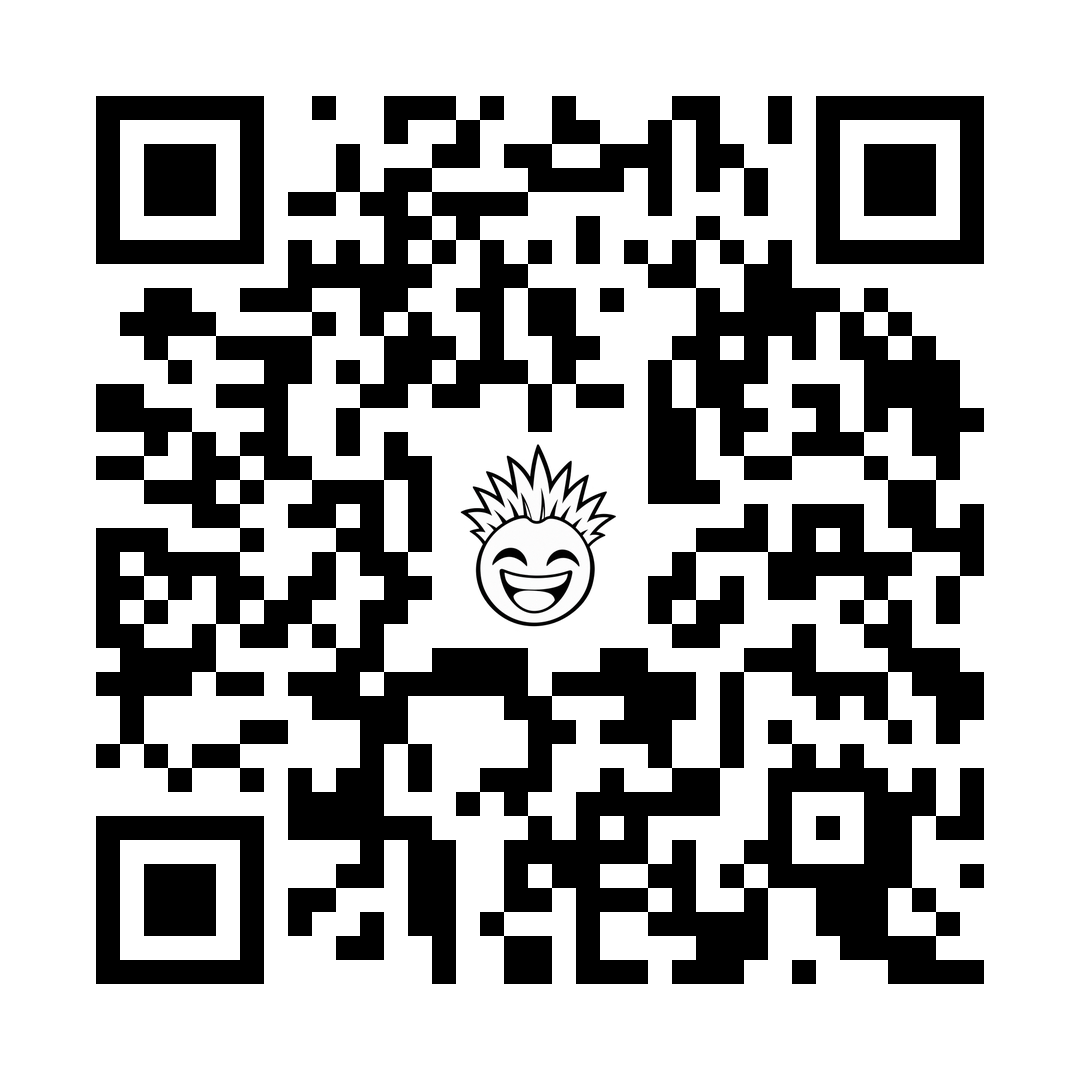
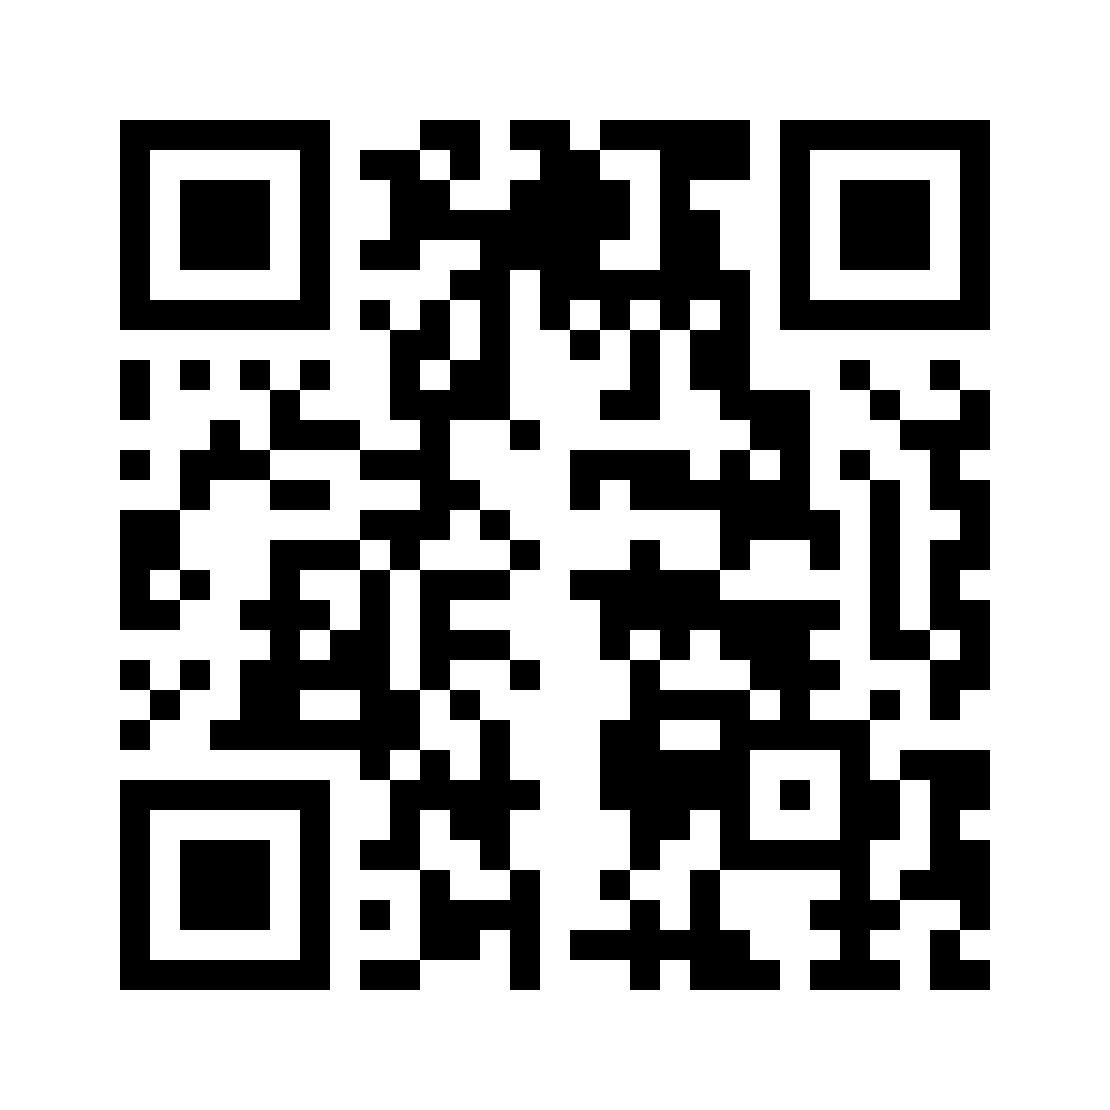
change domain

diff --git a/index.html b/index.html
@@ -10,6 +10,6 @@
 <section class="worlds" aria-label="Unsere Welten"><a class="world punk" href="#katalog" data-world-link="punk"><div><span class="eyebrow">FÜR KLEINE REBELLEN</span><h2>Punk for Kids <span><svg class="arrow arrow-up-right" viewBox="0 0 20 20" aria-hidden="true" focusable="false"><path d="M4 16 16 4M5 4h11v11"/></svg></span></h2><p>Young Rebels, Junior Rebels &amp; Shirts mit Eigensinn.</p></div><img class="world-symbol punk-symbol" src="assets/giggle-punk-wordmark-square.png" width="1280" height="1280" alt="Giggle Punk – lachendes Gesicht mit Irokesen"></a><a class="world kids" href="#katalog" data-world-link="kids"><div><span class="eyebrow">FÜR GROSSE TRÄUMER</span><h2>Kids <span><svg class="arrow arrow-up-right" viewBox="0 0 20 20" aria-hidden="true" focusable="false"><path d="M4 16 16 4M5 4h11v11"/></svg></span></h2><p>Dumplings, Tierfreunde &amp; ein Jahr voller Abenteuer.</p></div><img class="world-symbol home-symbol" src="assets/giggle-home-wordmark-square.png" width="1280" height="1280" alt="Giggle Home – lachendes Haus"></a></section>
 <section id="katalog" class="catalog"><div class="catalog-heading"><div><p class="eyebrow">UNSERE PRODUKTE</p><h2>Bunte Bücher, wilde Shirts <i>&amp; mehr.</i></h2></div><label class="search"><span aria-hidden="true">⌕</span><input id="search" type="search" placeholder="Produkte suchen …" aria-label="Produkte durchsuchen"></label></div><p class="catalog-intro">Entdecke alle 68 Etsy-Artikel und 17 veröffentlichte Bücher bei Amazon – gedruckt oder zum Selbstausdrucken.</p><div class="filter-top"><div class="world-filters" aria-label="Produktwelt"><button data-world="all" aria-pressed="true">Alle Welten</button><button data-world="punk" aria-pressed="false">Punk for Kids</button><button data-world="kids" aria-pressed="false">Kids</button></div><label class="sort-label">Sortieren <select id="sort" aria-label="Produkte sortieren"><option value="curated">Unsere Auswahl</option><option value="newest">Neuheiten zuerst</option><option value="az">Name A–Z</option><option value="za">Name Z–A</option></select></label></div><div class="filter-bottom"><div class="category-filters" aria-label="Produkttyp"><button data-category="all" aria-pressed="true">Alles <span></span></button><button data-category="books" aria-pressed="false">Mal- &amp; Mitmachbücher <span></span></button><button data-category="printables" aria-pressed="false">Malbücher zum Ausdrucken <span></span></button><button data-category="clothing" aria-pressed="false">T-Shirts / Clothing <span></span></button><button data-category="posters" aria-pressed="false">Poster <span></span></button><button data-category="digitalposters" aria-pressed="false">Poster zum Ausdrucken <span></span></button><button data-category="calendar" aria-pressed="false">Kalender <span></span></button></div><p id="count" role="status" aria-live="polite"></p></div><div id="grid" class="grid"></div><div id="empty" hidden><h3>Noch kein Treffer.</h3><p>Probiere einen anderen Suchbegriff oder eine andere Kategorie.</p><button id="reset">Alle Produkte zeigen</button></div><noscript>Bitte aktiviere JavaScript für den Produktkatalog. Alle Produkte findest du auch direkt im <a href="https://www.etsy.com/shop/GigglingHome">Etsy-Shop</a> und auf der <a href="https://amazon.com/author/giggle">Amazon-Autorenseite</a>.</noscript></section>
 <section class="endnote"><img class="endnote-art" src="assets/giggle-home-creative-banner-sage-coral.png" width="2172" height="724" loading="lazy" alt="Das lachende Giggle-Home-Haus mit zwei Dumplings beim Malen, einem Kinder-Shirt und einem gerahmten Fantasieposter"><div class="endnote-copy"><p class="eyebrow">EINE IDEE. VIELE BUNTE WELTEN.</p><h2>Für mehr „Das bin ich!“<br>im Kinderzimmer.</h2><p>Ob mit Stiften in der Hand, dem Lieblingsshirt am Körper<br>oder einem kleinen Abenteuer an der Wand.</p></div><div class="endnote-actions" aria-label="Unsere Shops"><a class="button" href="https://www.etsy.com/shop/GigglingHome" target="_blank" rel="noopener noreferrer">Giggle Home auf Etsy <svg class="arrow arrow-up-right" viewBox="0 0 20 20" aria-hidden="true" focusable="false"><path d="M4 16 16 4M5 4h11v11"/></svg></a><a class="button" href="https://amazon.com/author/giggle" target="_blank" rel="noopener noreferrer">Bücher bei Amazon <svg class="arrow arrow-up-right" viewBox="0 0 20 20" aria-hidden="true" focusable="false"><path d="M4 16 16 4M5 4h11v11"/></svg></a><a class="button spreadshop-button" href="https://gigglehome.myspreadshop.de" target="_blank" rel="noopener noreferrer">Shirts bei Spreadshop <svg class="arrow arrow-up-right" viewBox="0 0 20 20" aria-hidden="true" focusable="false"><path d="M4 16 16 4M5 4h11v11"/></svg></a></div></section>
-</main><aside class="take-home" aria-labelledby="take-home-title"><div class="take-home-copy"><p class="eyebrow">FÜR UNTERWEGS</p><h2 id="take-home-title">Giggle Home mitnehmen</h2><p class="take-home-description">Scannen, speichern oder weitergeben – unsere bunten Welten passen auch in die Hosentasche.</p><div class="qr-downloads"><a href="assets/giggle-home-qr.png" download="giggle-home-qr.png">QR-Code herunterladen <svg class="arrow arrow-download" viewBox="0 0 20 20" aria-hidden="true" focusable="false"><path d="M10 3v11M5 9l5 5 5-5M4 17h12"/></svg></a><a href="assets/giggle-home-qr.svg" download="giggle-home-qr.svg">Druckversion (SVG) <svg class="arrow arrow-download" viewBox="0 0 20 20" aria-hidden="true" focusable="false"><path d="M10 3v11M5 9l5 5 5-5M4 17h12"/></svg></a></div></div><a class="qr-image-link" href="https://giggle.stefanmarx.de/?source=qr" aria-label="Giggle Home über den QR-Link öffnen"><img src="assets/giggle-home-qr.svg" width="164" height="164" loading="lazy" alt="QR-Code zur Giggle-Home-Webseite"><span>giggle.stefanmarx.de</span></a></aside><footer><a class="footer-brand" href="#" aria-label="Giggle Home – Startseite"><img src="assets/giggle-home-logo-sage-coral.png" width="2172" height="724" alt="Giggle Home"></a><p>Malbücher, Kleidung, Poster & Kalender.</p><a href="https://amazon.com/author/giggle" target="_blank" rel="noopener noreferrer">Amazon <svg class="arrow arrow-up-right" viewBox="0 0 20 20" aria-hidden="true" focusable="false"><path d="M4 16 16 4M5 4h11v11"/></svg></a><a href="https://www.etsy.com/shop/GigglingHome" target="_blank" rel="noopener noreferrer">Etsy <svg class="arrow arrow-up-right" viewBox="0 0 20 20" aria-hidden="true" focusable="false"><path d="M4 16 16 4M5 4h11v11"/></svg></a><a href="https://gigglehome.myspreadshop.de" target="_blank" rel="noopener noreferrer">Spreadshop <svg class="arrow arrow-up-right" viewBox="0 0 20 20" aria-hidden="true" focusable="false"><path d="M4 16 16 4M5 4h11v11"/></svg></a><div class="footer-social" role="group" aria-label="Giggle Punk auf Social Media"><a href="https://www.pinterest.com/gigglepunk/" target="_blank" rel="noopener noreferrer">Pinterest · @gigglepunk <svg class="arrow arrow-up-right" viewBox="0 0 20 20" aria-hidden="true" focusable="false"><path d="M4 16 16 4M5 4h11v11"/></svg></a><a href="https://www.instagram.com/giggle.punk/" target="_blank" rel="noopener noreferrer">Instagram · @giggle.punk <svg class="arrow arrow-up-right" viewBox="0 0 20 20" aria-hidden="true" focusable="false"><path d="M4 16 16 4M5 4h11v11"/></svg></a></div><nav class="legal-links" aria-label="Rechtliche Informationen"><a class="legal-imprint" href="https://impressum.stefanmarx.de/">Impressum</a><a class="legal-privacy" href="https://impressum.stefanmarx.de/datenschutz/">Datenschutz</a></nav></footer><div class="demo-note">Produktkatalog · Stand 18.11.2026 · Einkauf und aktuelle Preise direkt bei Amazon, Etsy oder Spreadshop.</div>
+</main><aside class="take-home" aria-labelledby="take-home-title"><div class="take-home-copy"><p class="eyebrow">FÜR UNTERWEGS</p><h2 id="take-home-title">Giggle Home mitnehmen</h2><p class="take-home-description">Scannen, speichern oder weitergeben – unsere bunten Welten passen auch in die Hosentasche.</p><div class="qr-downloads"><a href="assets/giggle-home-qr.png" download="giggle-home-qr.png">QR-Code herunterladen <svg class="arrow arrow-download" viewBox="0 0 20 20" aria-hidden="true" focusable="false"><path d="M10 3v11M5 9l5 5 5-5M4 17h12"/></svg></a><a href="assets/giggle-home-qr.svg" download="giggle-home-qr.svg">Druckversion (SVG) <svg class="arrow arrow-download" viewBox="0 0 20 20" aria-hidden="true" focusable="false"><path d="M10 3v11M5 9l5 5 5-5M4 17h12"/></svg></a></div></div><a class="qr-image-link" href="https://www.gigglehome.de/?source=qr" aria-label="Giggle Home über den QR-Link öffnen"><img src="assets/giggle-home-qr.svg" width="164" height="164" loading="lazy" alt="QR-Code zur Giggle-Home-Webseite"><span>www.gigglehome.de</span></a></aside><footer><a class="footer-brand" href="#" aria-label="Giggle Home – Startseite"><img src="assets/giggle-home-logo-sage-coral.png" width="2172" height="724" alt="Giggle Home"></a><p>Malbücher, Kleidung, Poster & Kalender.</p><a href="https://amazon.com/author/giggle" target="_blank" rel="noopener noreferrer">Amazon <svg class="arrow arrow-up-right" viewBox="0 0 20 20" aria-hidden="true" focusable="false"><path d="M4 16 16 4M5 4h11v11"/></svg></a><a href="https://www.etsy.com/shop/GigglingHome" target="_blank" rel="noopener noreferrer">Etsy <svg class="arrow arrow-up-right" viewBox="0 0 20 20" aria-hidden="true" focusable="false"><path d="M4 16 16 4M5 4h11v11"/></svg></a><a href="https://gigglehome.myspreadshop.de" target="_blank" rel="noopener noreferrer">Spreadshop <svg class="arrow arrow-up-right" viewBox="0 0 20 20" aria-hidden="true" focusable="false"><path d="M4 16 16 4M5 4h11v11"/></svg></a><div class="footer-social" role="group" aria-label="Giggle Punk auf Social Media"><a href="https://www.pinterest.com/gigglepunk/" target="_blank" rel="noopener noreferrer">Pinterest · @gigglepunk <svg class="arrow arrow-up-right" viewBox="0 0 20 20" aria-hidden="true" focusable="false"><path d="M4 16 16 4M5 4h11v11"/></svg></a><a href="https://www.instagram.com/giggle.punk/" target="_blank" rel="noopener noreferrer">Instagram · @giggle.punk <svg class="arrow arrow-up-right" viewBox="0 0 20 20" aria-hidden="true" focusable="false"><path d="M4 16 16 4M5 4h11v11"/></svg></a></div><nav class="legal-links" aria-label="Rechtliche Informationen"><a class="legal-imprint" href="https://impressum.stefanmarx.de/">Impressum</a><a class="legal-privacy" href="https://impressum.stefanmarx.de/datenschutz/">Datenschutz</a></nav></footer><div class="demo-note">Produktkatalog · Stand 18.11.2026 · Einkauf und aktuelle Preise direkt bei Amazon, Etsy oder Spreadshop.</div>
 <div class="qr-mascot" hidden aria-hidden="true"><img src="assets/giggle-home-house-sage-coral.png" width="1280" height="1280" alt=""></div>
 </body></html>

diff --git a/README.md b/README.md
@@ -25,7 +25,7 @@ Die Zuordnung zu den Produktwelten ist ein redaktioneller Vorschlag. Originaltit
 4. In Settings → Pages → Build and deployment die Quelle **GitHub Actions** wählen.
 5. Nach dem nächsten Push oder einem manuellen Start des Workflows wird die Seite veröffentlicht.
 
-Repository: https://github.com/sxram/giggle-home · Webseite: https://giggle.stefanmarx.de/. Vor Veröffentlichung vollständige rechtliche Angaben ergänzen und die Produktauswahl sowie die Bildverwendung prüfen. Der Hinweis „Designvorschau“ auf der Seite macht den aktuellen Entwurfsstand sichtbar.
+Repository: https://github.com/sxram/giggle-home · Webseite: https://www.gigglehome.de/. Vor Veröffentlichung vollständige rechtliche Angaben ergänzen und die Produktauswahl sowie die Bildverwendung prüfen. Der Hinweis „Designvorschau“ auf der Seite macht den aktuellen Entwurfsstand sichtbar.
 
 ## Produkte ergänzen
 
@@ -121,7 +121,7 @@ Vor jedem Deployment erzeugt `scripts/prepare_site.py` die Produktdaten und vers
 
 ## QR-Karte im Fußbereich
 
-`assets/giggle-home-qr.png` und `.svg` enthalten die Zieladresse `https://giggle.stefanmarx.de/?source=qr`. Die SVG-Druckversion ist auf 32 mm mit vier Modulen weißem Rand angelegt; die PNG ist hochauflösend. Das Haus-Maskottchen begrüßt Besucher unabhängig von der Herkunft bei jedem Laden der Seite mit einem sieben Sekunden langen Hüpfen am unteren Bildschirmrand. Es fängt keine Klicks ab, verschwindet vollständig und bleibt bei reduzierter Bewegung aus. Der QR-Parameter kennzeichnet lediglich den Link und löst keine Sonderansicht aus. Keine Popups, Weiterleitung oder zusätzliche Analyse bzw. eigene Speicherung der Herkunft. Sprachwechsel erhalten den Parameter. Die ursprünglichen QR-Druckdateien ohne Parameter bleiben als frühere Chat-Downloads erhalten.
+`assets/giggle-home-qr.png` und `.svg` enthalten die Zieladresse `https://www.gigglehome.de/?source=qr`. Die SVG-Druckversion ist auf 32 mm mit vier Modulen weißem Rand angelegt; die PNG ist hochauflösend. Das Haus-Maskottchen begrüßt Besucher unabhängig von der Herkunft bei jedem Laden der Seite mit einem sieben Sekunden langen Hüpfen am unteren Bildschirmrand. Es fängt keine Klicks ab, verschwindet vollständig und bleibt bei reduzierter Bewegung aus. Der QR-Parameter kennzeichnet lediglich den Link und löst keine Sonderansicht aus. Keine Popups, Weiterleitung oder zusätzliche Analyse bzw. eigene Speicherung der Herkunft. Sprachwechsel erhalten den Parameter. Die ursprünglichen QR-Druckdateien ohne Parameter bleiben als frühere Chat-Downloads erhalten.
 
 ## Einheitliche Pfeile auf iOS
 
